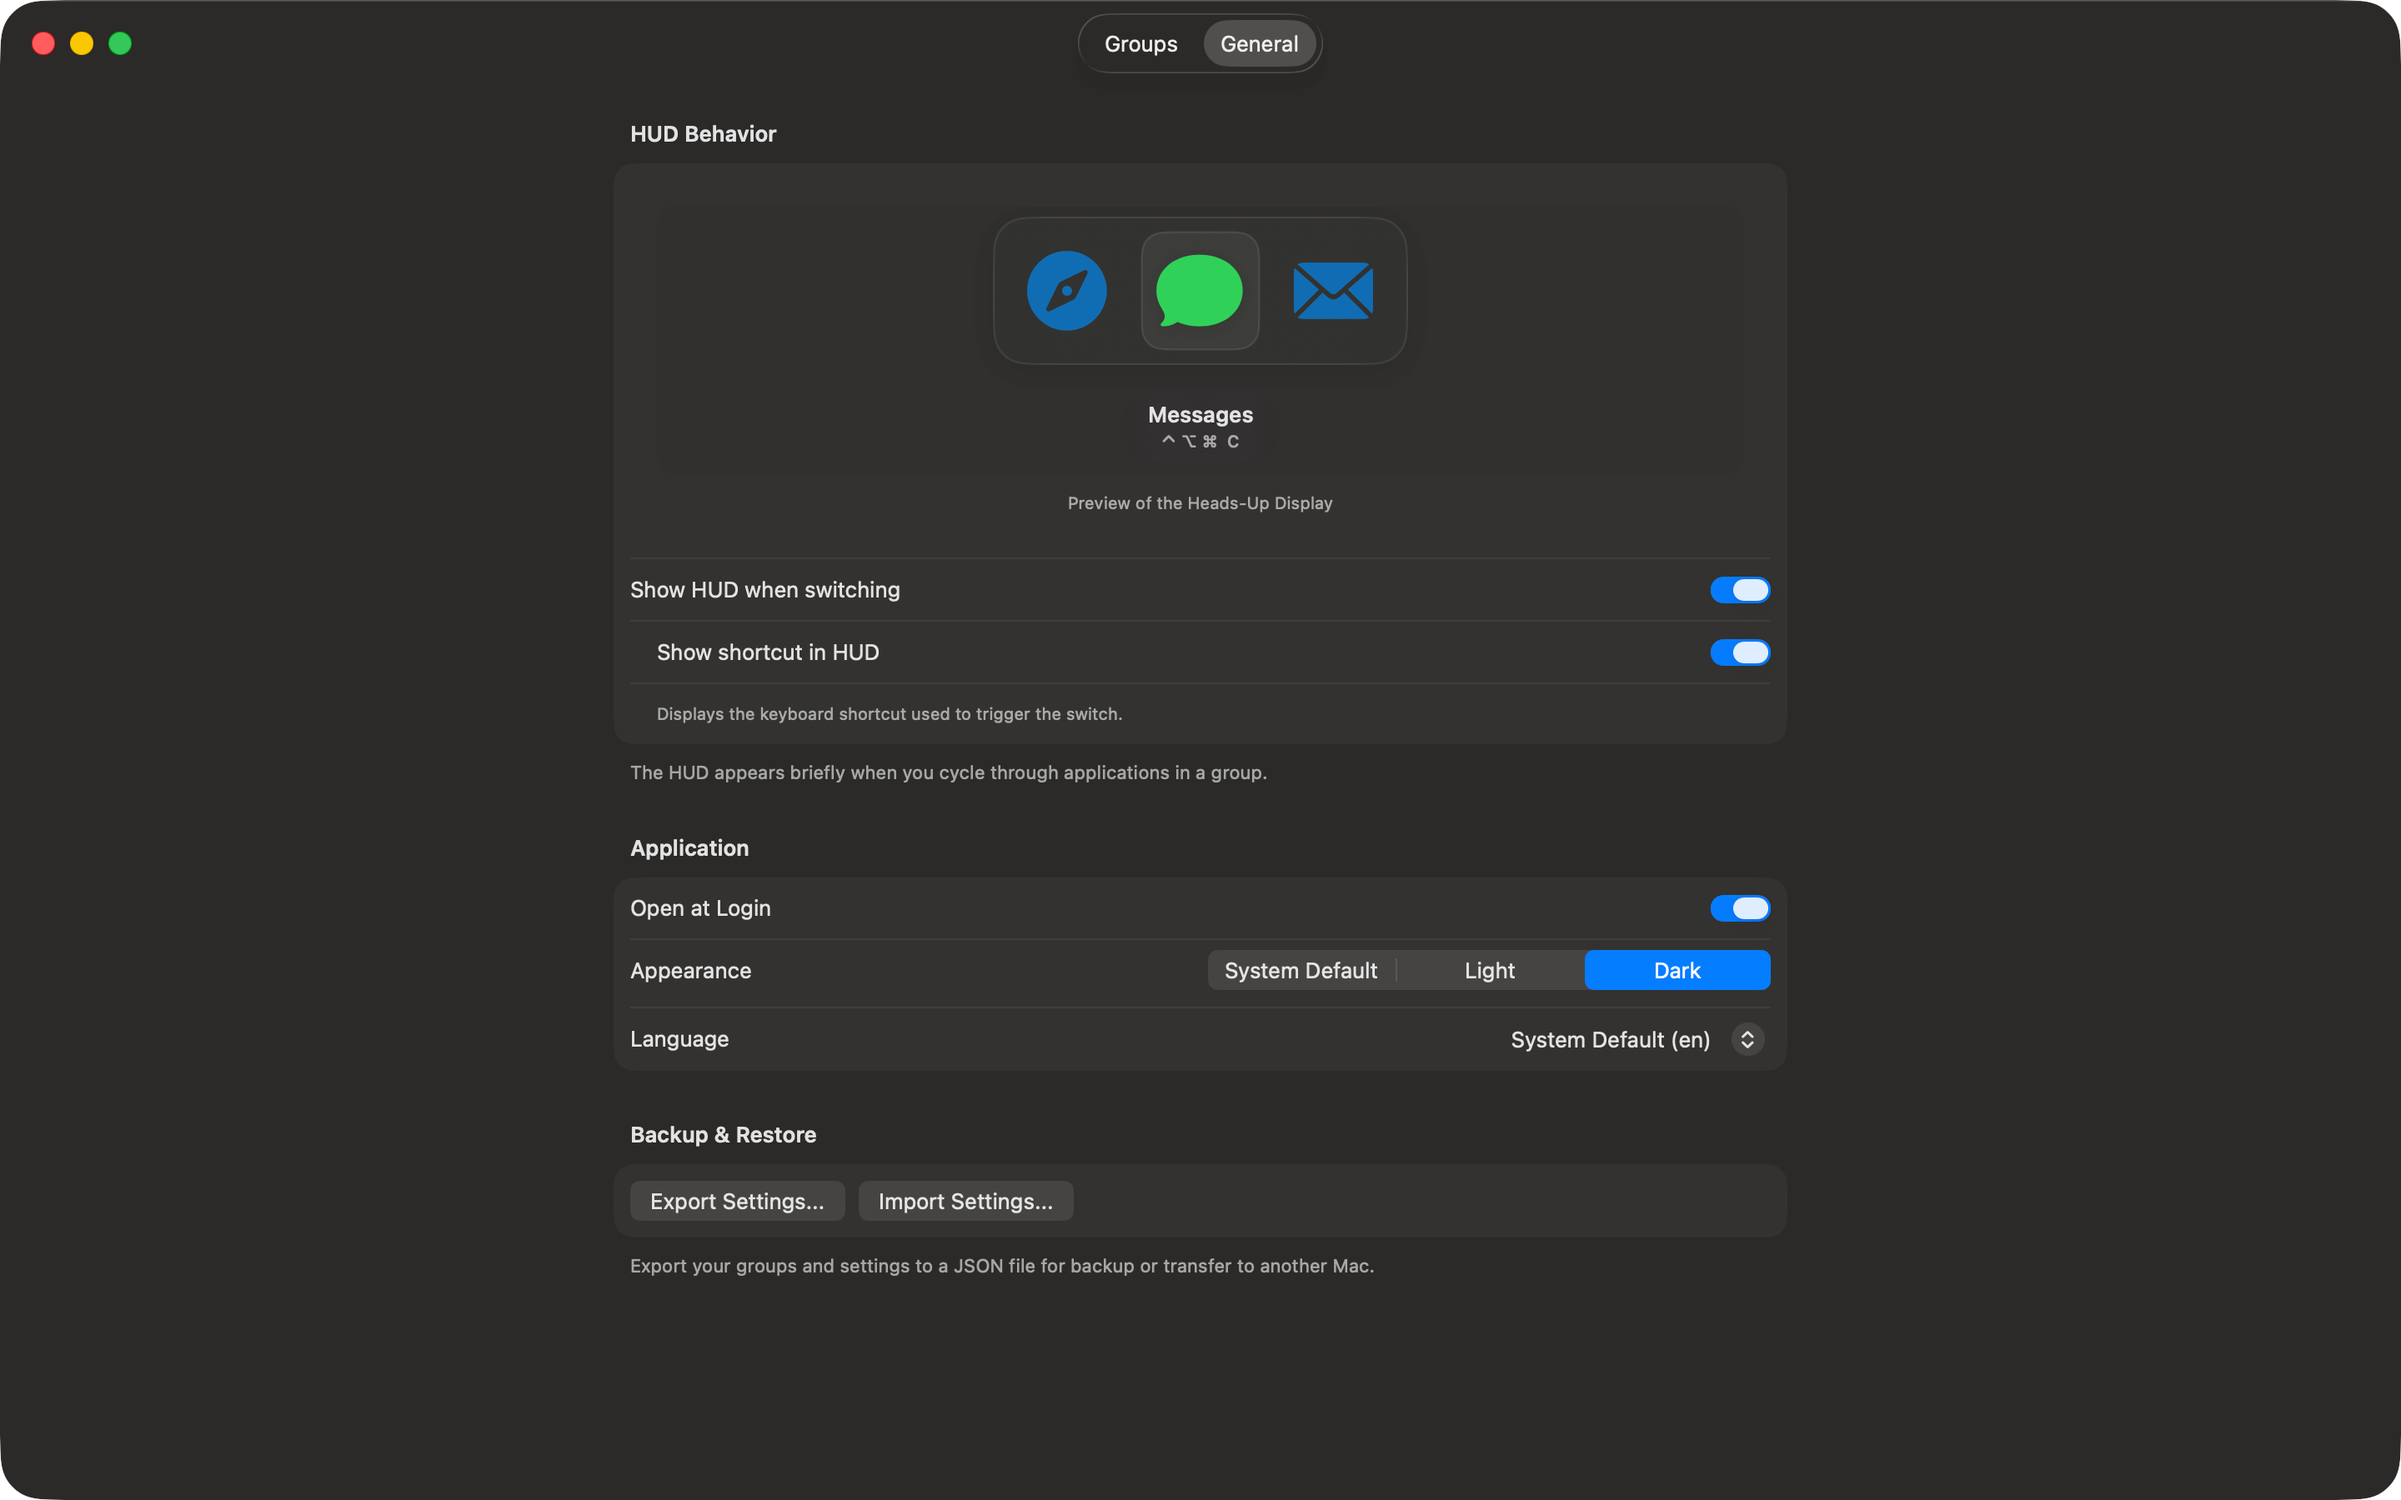
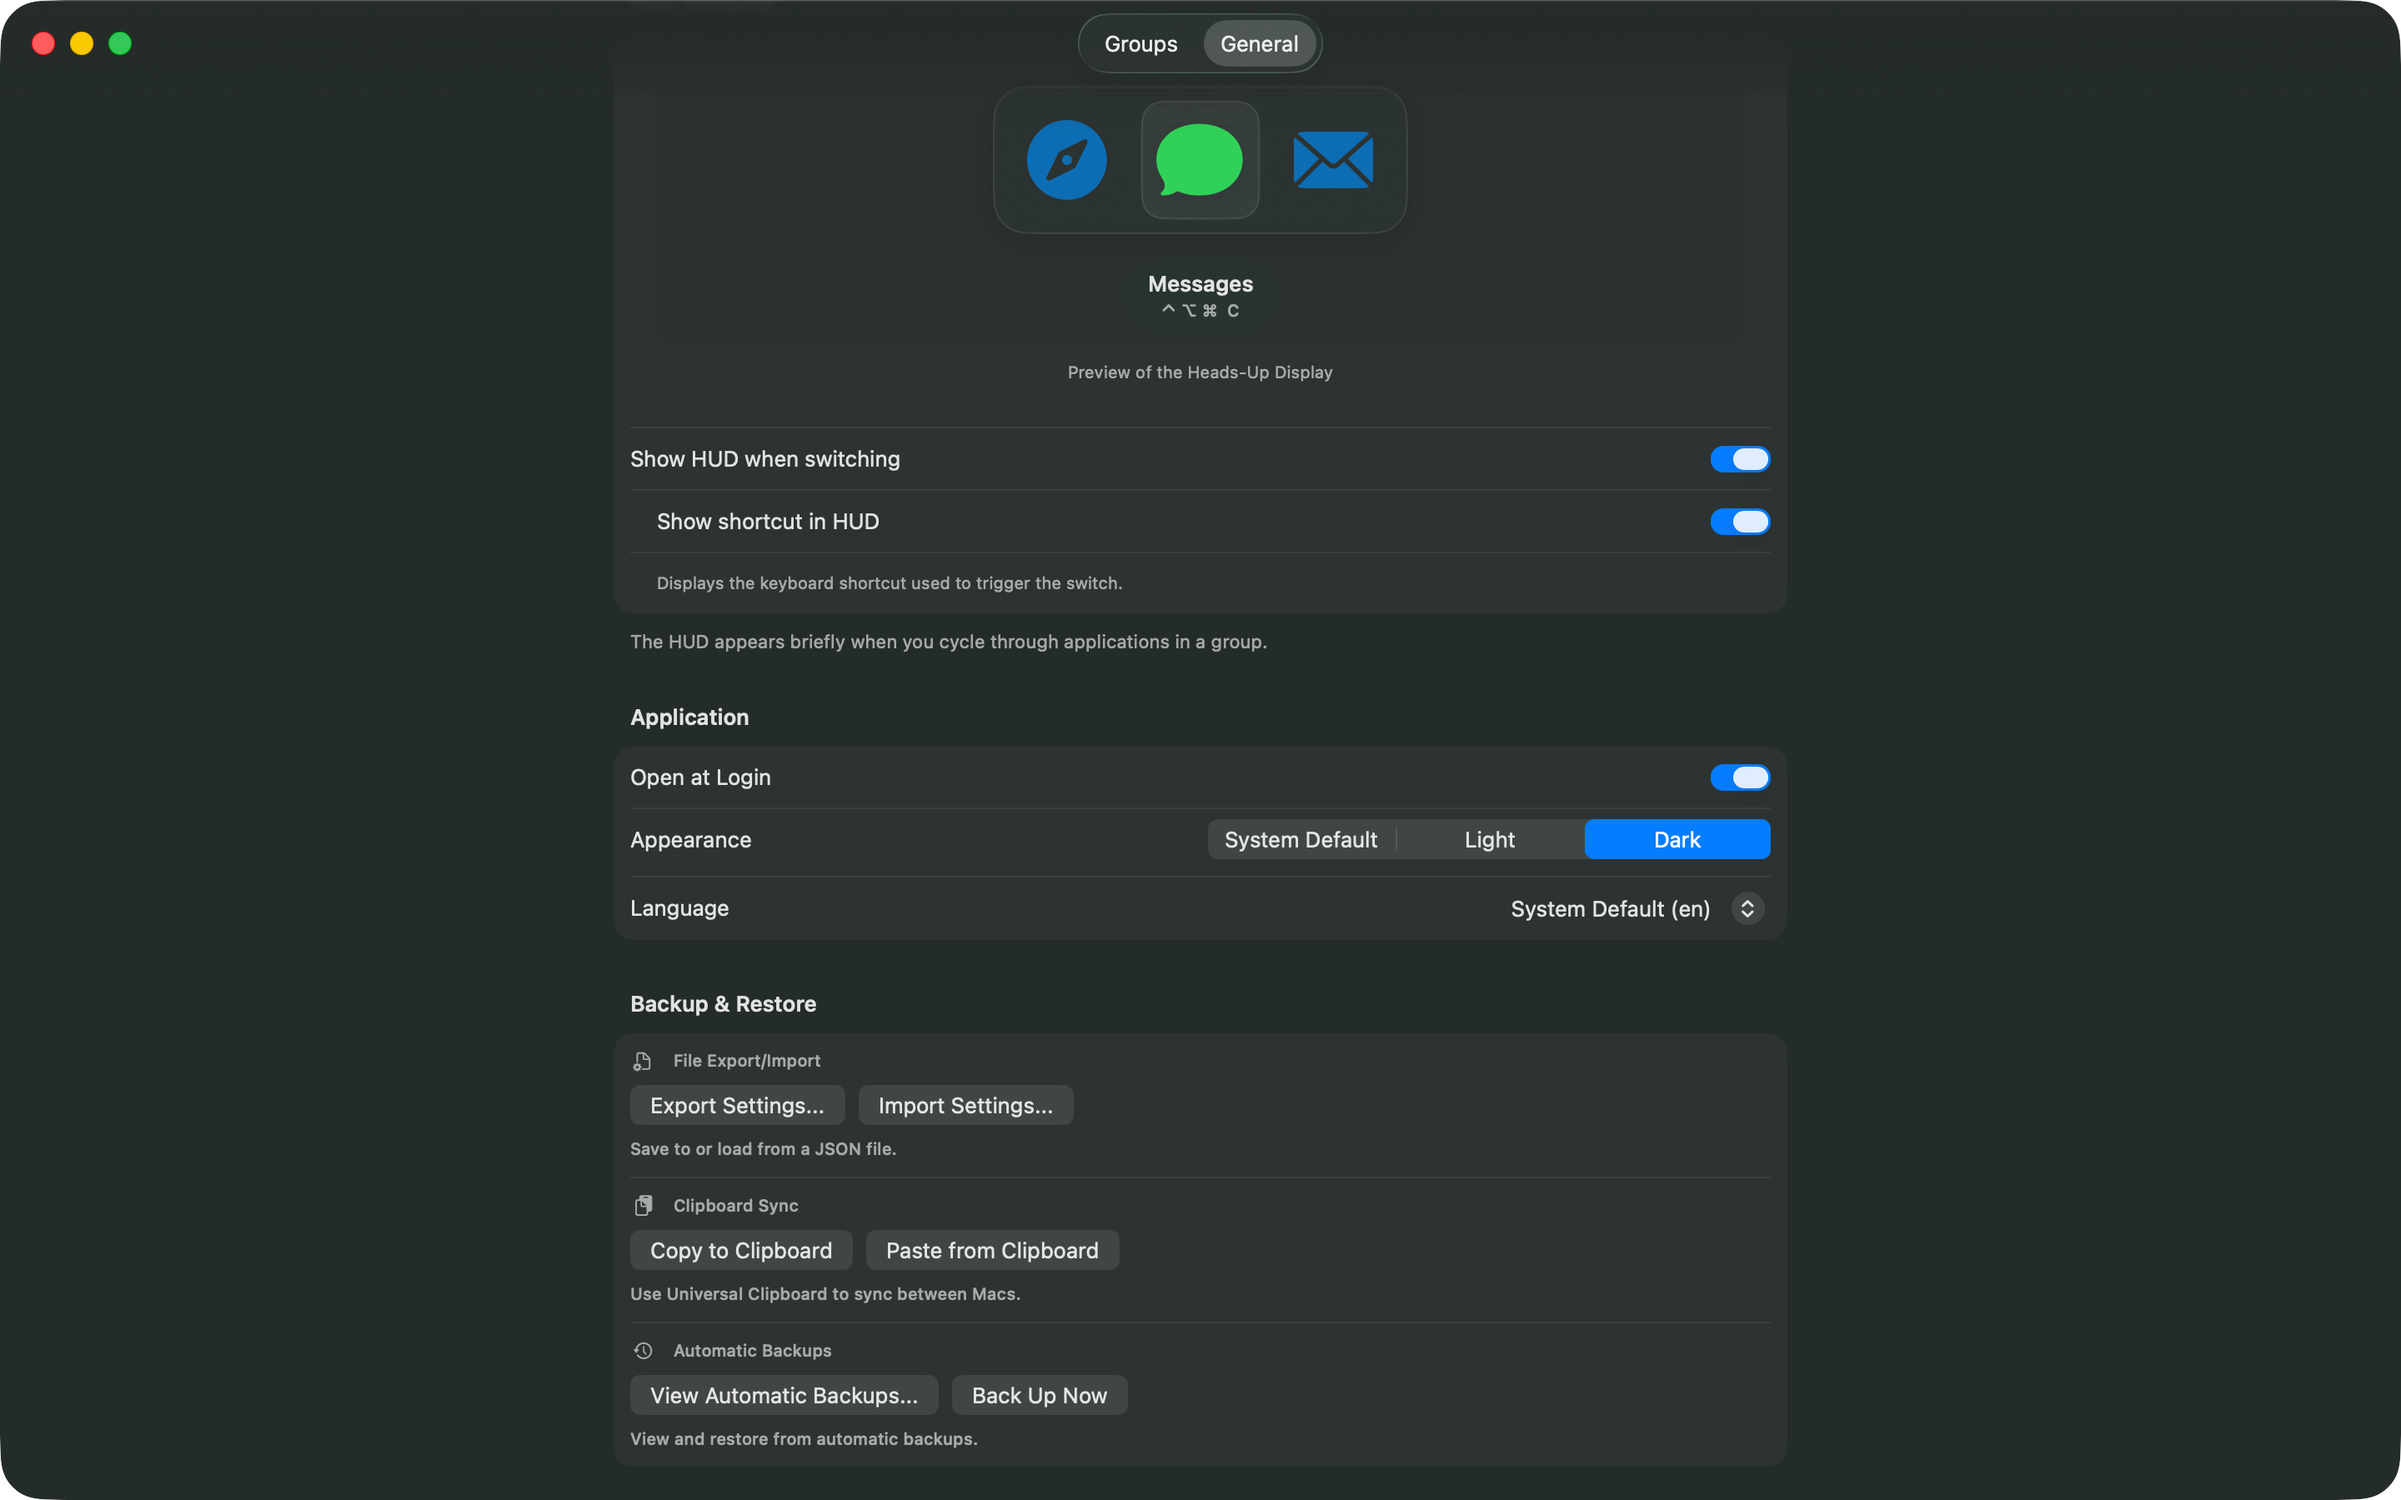
Update screenshots for 1.2

diff --git a/index.html b/index.html
@@ -441,6 +441,14 @@
                             alt="HUD Overlay Light">
                     </div>
                     <div class="screenshot-frame">
+                        <img src="ShortcutCycle/App%20Store%20Connect%20Assets/Screenshots/HUD-Grid%20Light.png"
+                            alt="Grid View Light">
+                    </div>
+                    <div class="screenshot-frame">
+                        <img src="ShortcutCycle/App%20Store%20Connect%20Assets/Screenshots/HUD%20Dark.png"
+                            alt="HUD Overlay Dark">
+                    </div>
+                    <div class="screenshot-frame">
                         <img src="ShortcutCycle/App%20Store%20Connect%20Assets/Screenshots/HUD-Grid%20Dark.png"
                             alt="Grid View Dark">
                     </div>
@@ -459,6 +467,10 @@
                     <div class="screenshot-frame">
                         <img src="ShortcutCycle/App%20Store%20Connect%20Assets/Screenshots/Menubar%20and%20languages.png"
                             alt="Menu Bar and Localization">
+                    </div>
+                    <div class="screenshot-frame">
+                        <img src="ShortcutCycle/App%20Store%20Connect%20Assets/Screenshots/Automatic%20Backups.png"
+                            alt="Automatic Backups">
                     </div>
                 </div>
                 <button class="scroll-btn next" id="gallery-next" aria-label="Next">
